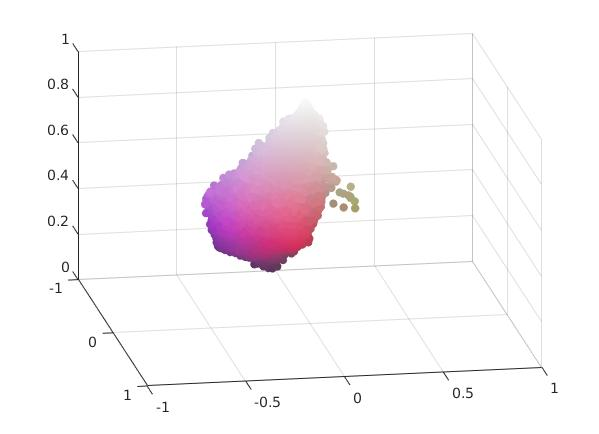
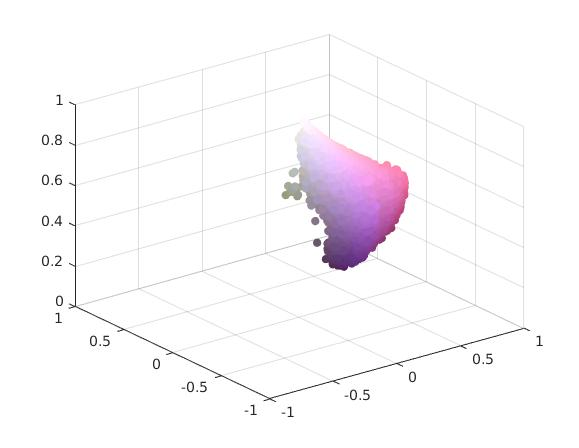
actualizo el script

diff --git a/Lab2/script.m b/Lab2/script.m
@@ -87,7 +87,7 @@ imshow(Y_bin)
 
 carcicoma_blue = [112, 56, 129];
 dist_vec = dist( carcicoma_blue, centers);
-[m, carcicoma_idx] = min(dist_vec)
+[m, carcicoma_idx] = min(dist_vec);
 % use idx of the segmentation
 
 BW_image = zeros(h,w);
@@ -142,9 +142,10 @@ title(strcat(" Clusterized k = ", num2str(k)))
 h = size(Y,1);
 w = size(Y,2);
 v = h*w;
- 
+close all
+
 % Color Clustering from original
-C = double([reshape(Y(:,:,1),[v 1]), reshape(Y(:,:,2),[v 1]), reshape(Y(:,:,3),[v 1])])./255;
+C = double([reshape(Im(:,:,1),[v 1]), reshape(Im(:,:,2),[v 1]), reshape(Im(:,:,3),[v 1])])./255;
 
 figure;
 scatter3( XX(:,2).*cos(XX(:,1))  ,XX(:,2).*sin(XX(:,1)) ,XX(:,3),36,C,'filled')
@@ -152,7 +153,45 @@ scatter3( XX(:,2).*cos(XX(:,1))  ,XX(:,2).*sin(XX(:,1)) ,XX(:,3),36,C,'filled')
 xlim([-1,1])
 ylim([-1,1])
 zlim([0,1])
+
+% Color Clustering from original
+CC = double([reshape(Y(:,:,1),[v 1]), reshape(Y(:,:,2),[v 1]), reshape(Y(:,:,3),[v 1])])./255;
+
+figure;
+scatter3( XX(:,2).*cos(XX(:,1))  ,XX(:,2).*sin(XX(:,1)) ,XX(:,3),36,CC,'filled')
+xlim([-1,1])
+ylim([-1,1])
+zlim([0,1])
+
+
 %% Carcicoma morphology
+
+carcicoma_blue = [112, 56, 129];
+dist_vec = dist( rgb2HSL(carcicoma_blue) , centers);
+[m, carcicoma_idx] = min(dist_vec);
+% use idx of the segmentation
+
+BW_image = zeros(h,w);
+BW_image(indx == carcicoma_idx) = 1;
+figure;
+imshow(BW_image)
+
+figure;
+se = strel('disk',6);
+BW_im2 = imopen(BW_image, se);
+se = strel('disk',7);
+BW_im2 = imdilate(BW_im2, se);
+BW_im2 = imdilate(BW_im2, se);
+BW_im2 = imfill(BW_im2);
+imshow(BW_im2)
+
+figure;
+Im_2 = reshape(Im, [h*w, 3]) ;
+bool_indices = reshape(BW_im2, [h*w,1]) > 0.5;
+Im_2( bool_indices , :  ) = repmat(carcicoma_blue, [sum(bool_indices),1]);
+Im_2 = reshape( Im_2, [h,w,3] );
+imshow(Im_2)
+
 
 
 %% HSL example
